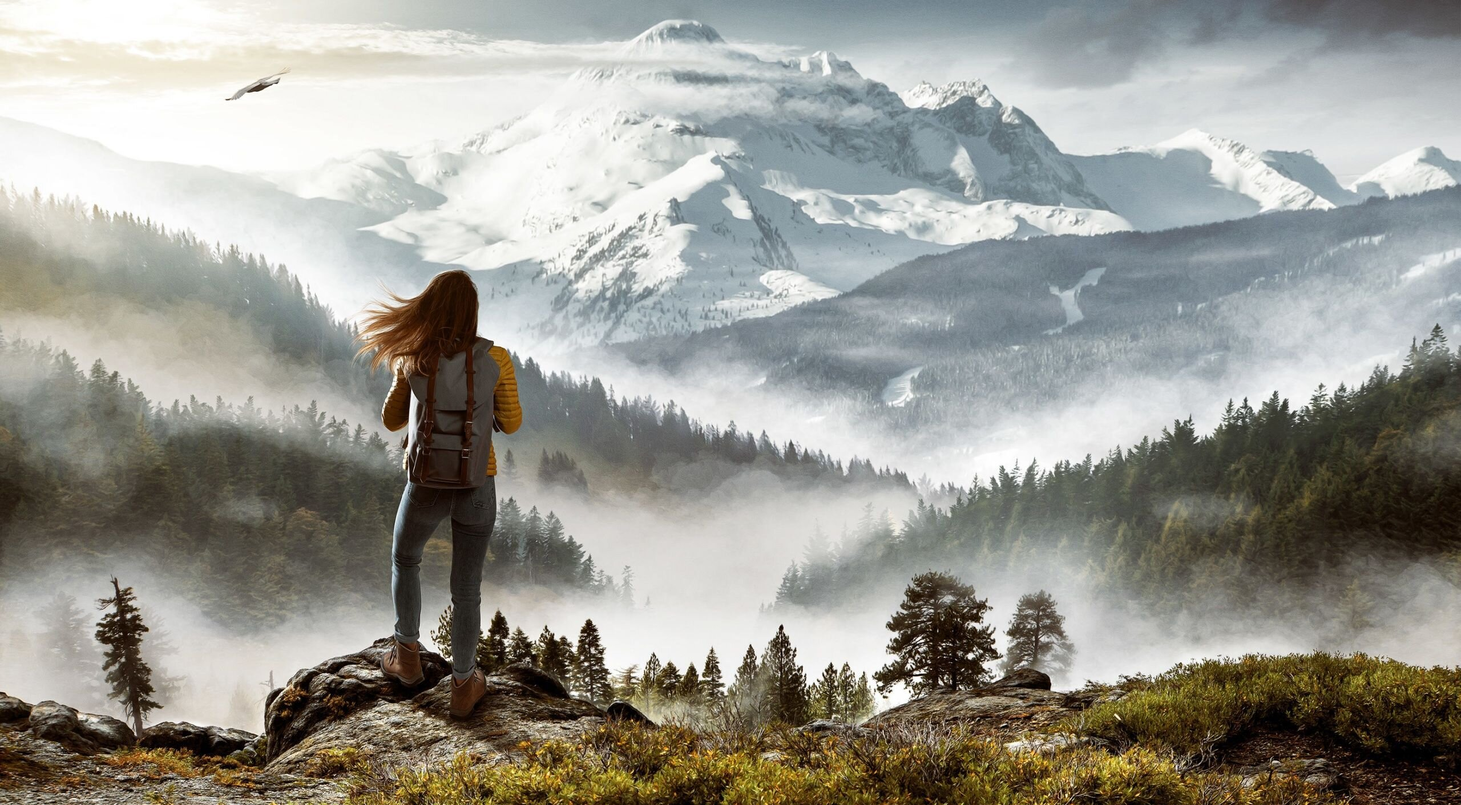
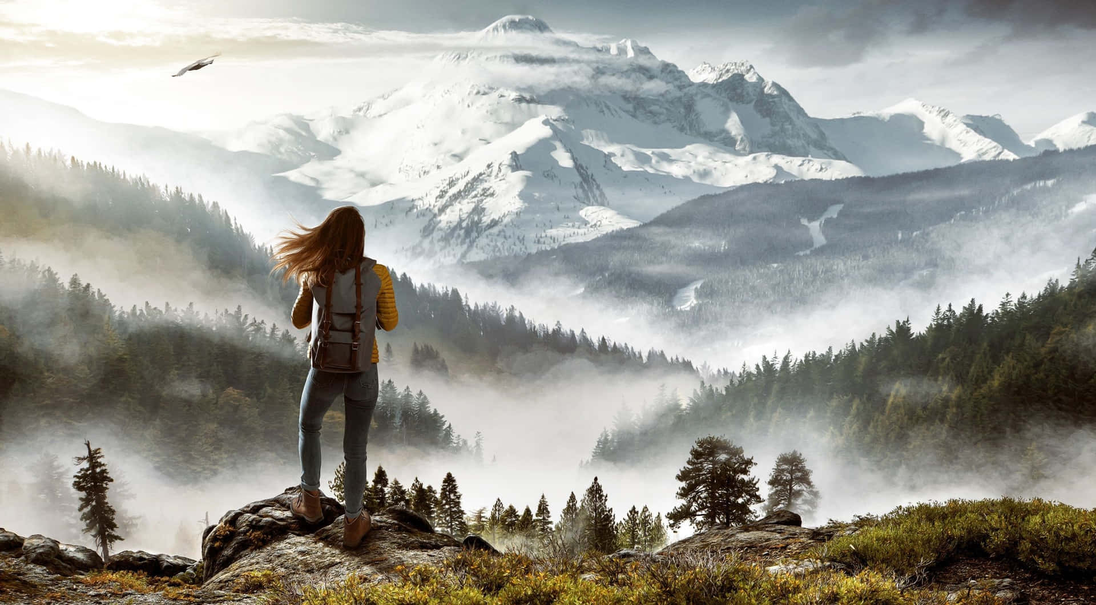
Updated Images

diff --git a/css/style.css b/css/style.css
@@ -6,7 +6,7 @@ body {
 
 /* HOMEPAGE */
 .img-index{
-    background-image: url(/images/pageImages/homepagemountain.jpeg);
+    background-image: url('https://images.alphacoders.com/126/1261794.jpg');
     height: 600px;
     background-repeat: no-repeat;
     width: 100%;
@@ -78,7 +78,7 @@ body {
 }
 
 .img-parks{
-    background-image: url(/images/pageImages/parks.jpg);
+    background-image: url('https://i.redd.it/ftcvsua9hdy51.jpg');
     height: 600px;
     background-repeat: no-repeat;
     width: 100%;
@@ -138,7 +138,7 @@ body {
 }
 
 .img-mount{
-    background-image: url(/images/pageImages/mountain.jpg);
+    background-image: url('https://wallpapers.com/images/hd/hiking-2518-x-1390-background-0dy141klqe014w1b.jpg');
     height: 600px;
     background-repeat: no-repeat;
     width: 100%;
